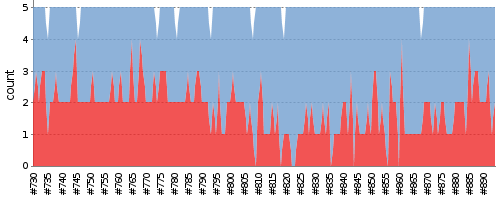
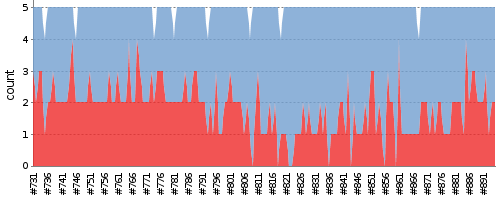
update report

diff --git a/index.md b/index.md
@@ -1,7 +1,7 @@
 ---
 layout: default
 ---
-Last update : 2016/01/23 14:59:12
+Last update : 2016/01/23 15:59:13
   
 ### Job Summary
 ___
@@ -116,6 +116,7 @@ ___
 #### Build History
 |Status|Time|Duration|Inspection|Test|Coverage|Changes|Build|Console|Image|Video|Note|
 |---|---|---|---|---|---|---|---|---|---|---|---|---|
+|![Jenkins Icon](http://jenkinshrg.github.io/images/24x24/yellow.png)UNSTABLE|2016/01/23 15:00|45 min.||2 err.|||[openhrp3.log](https://drive.google.com/file/d/0B54sHwaxmuM4cWVVcmRkLXdXdzA/view?usp=drivesdk)<br>[hrpsys-base.log](https://drive.google.com/file/d/0B54sHwaxmuM4VWtJdkZLV3hfZVk/view?usp=drivesdk)<br>[HRP2.log](https://drive.google.com/file/d/0B54sHwaxmuM4TXJ5S0lqWkZNOWc/view?usp=drivesdk)<br>[HRP2DRC.log](https://drive.google.com/file/d/0B54sHwaxmuM4R1o3WC1oZlEwcjA/view?usp=drivesdk)<br>[hmc2.log](https://drive.google.com/file/d/0B54sHwaxmuM4dFM4b3ZILVdOUlk/view?usp=drivesdk)<br>[hrpsys-humanoid.log](https://drive.google.com/file/d/0B54sHwaxmuM4M28yMDgtYXYxXzg/view?usp=drivesdk)<br>[hrpsys-private.log](https://drive.google.com/file/d/0B54sHwaxmuM4TVhibjRVYVYyMms/view?usp=drivesdk)<br>[choreonoid.log](https://drive.google.com/file/d/0B54sHwaxmuM4cUdITDFkZ0YxVDg/view?usp=drivesdk)<br>|[jenkinshrg.txt](https://drive.google.com/file/d/0B54sHwaxmuM4ajJWMzdyekFlS0U/view?usp=drivesdk)<br>|[jenkinshrg.png](https://drive.google.com/file/d/0B54sHwaxmuM4YzM0Vmg4azdvclk/view?usp=drivesdk)<br>|||
 |![Jenkins Icon](http://jenkinshrg.github.io/images/24x24/yellow.png)UNSTABLE|2016/01/23 14:00|45 min.||2 err.|||[openhrp3.log](https://drive.google.com/file/d/0B54sHwaxmuM4SWhyMC1LalMyWEU/view?usp=drivesdk)<br>[hrpsys-base.log](https://drive.google.com/file/d/0B54sHwaxmuM4c21namNVWHN5aGM/view?usp=drivesdk)<br>[HRP2.log](https://drive.google.com/file/d/0B54sHwaxmuM4ZWpSYmU2b0V0VkU/view?usp=drivesdk)<br>[HRP2DRC.log](https://drive.google.com/file/d/0B54sHwaxmuM4VXJYdFo3eURLbkU/view?usp=drivesdk)<br>[hmc2.log](https://drive.google.com/file/d/0B54sHwaxmuM4eFFZX2hKYW40YVk/view?usp=drivesdk)<br>[hrpsys-humanoid.log](https://drive.google.com/file/d/0B54sHwaxmuM4SXJSNWI3dnpLQ2M/view?usp=drivesdk)<br>[hrpsys-private.log](https://drive.google.com/file/d/0B54sHwaxmuM4UExEQTVZdlR5RFE/view?usp=drivesdk)<br>[choreonoid.log](https://drive.google.com/file/d/0B54sHwaxmuM4WDV3Y1VSRS1lTWs/view?usp=drivesdk)<br>|[jenkinshrg.txt](https://drive.google.com/file/d/0B54sHwaxmuM4R083WkxGR2hSYzg/view?usp=drivesdk)<br>|[jenkinshrg.png](https://drive.google.com/file/d/0B54sHwaxmuM4X0JoenZyeXQxTE0/view?usp=drivesdk)<br>|||
 |![Jenkins Icon](http://jenkinshrg.github.io/images/24x24/yellow.png)UNSTABLE|2016/01/23 13:00|45 min.||1 err.|||[openhrp3.log](https://drive.google.com/file/d/0B54sHwaxmuM4ZnNTWWlPd0hZOHc/view?usp=drivesdk)<br>[hrpsys-base.log](https://drive.google.com/file/d/0B54sHwaxmuM4SzNUQ0FJXzVneGs/view?usp=drivesdk)<br>[HRP2.log](https://drive.google.com/file/d/0B54sHwaxmuM4ODZJM1RyNnFEZXM/view?usp=drivesdk)<br>[HRP2DRC.log](https://drive.google.com/file/d/0B54sHwaxmuM4Z1VSeDA0XzU3SW8/view?usp=drivesdk)<br>[hmc2.log](https://drive.google.com/file/d/0B54sHwaxmuM4Q3I5OUF6dDQxeTA/view?usp=drivesdk)<br>[hrpsys-humanoid.log](https://drive.google.com/file/d/0B54sHwaxmuM4M3NsS01FVk1VTW8/view?usp=drivesdk)<br>[hrpsys-private.log](https://drive.google.com/file/d/0B54sHwaxmuM4UG5PYllqSFhCSkk/view?usp=drivesdk)<br>[choreonoid.log](https://drive.google.com/file/d/0B54sHwaxmuM4NHd5cm05NzFGNDg/view?usp=drivesdk)<br>|[jenkinshrg.txt](https://drive.google.com/file/d/0B54sHwaxmuM4OUpyUzJ2Y3VOVVk/view?usp=drivesdk)<br>|[jenkinshrg.png](https://drive.google.com/file/d/0B54sHwaxmuM4XzRwUjlGaWZhS28/view?usp=drivesdk)<br>|||
 |![Jenkins Icon](http://jenkinshrg.github.io/images/24x24/yellow.png)UNSTABLE|2016/01/23 12:00|47 min.||3 err.|||[openhrp3.log](https://drive.google.com/file/d/0B54sHwaxmuM4ZVM4dWNELURHdEU/view?usp=drivesdk)<br>[hrpsys-base.log](https://drive.google.com/file/d/0B54sHwaxmuM4M0djY0xmb0lIS28/view?usp=drivesdk)<br>[HRP2.log](https://drive.google.com/file/d/0B54sHwaxmuM4NGxROGViWFFTYkk/view?usp=drivesdk)<br>[HRP2DRC.log](https://drive.google.com/file/d/0B54sHwaxmuM4SUFfWU9zQ1VjbGc/view?usp=drivesdk)<br>[hmc2.log](https://drive.google.com/file/d/0B54sHwaxmuM4Ymd4WDV3amJFV28/view?usp=drivesdk)<br>[hrpsys-humanoid.log](https://drive.google.com/file/d/0B54sHwaxmuM4dVN4eFlGbTZ4X3M/view?usp=drivesdk)<br>[hrpsys-private.log](https://drive.google.com/file/d/0B54sHwaxmuM4c2tsX1M5dEY5TTQ/view?usp=drivesdk)<br>[choreonoid.log](https://drive.google.com/file/d/0B54sHwaxmuM4TDV1Vkdmc095Um8/view?usp=drivesdk)<br>|[jenkinshrg.txt](https://drive.google.com/file/d/0B54sHwaxmuM4UUtYNkdoUUtjMzg/view?usp=drivesdk)<br>[testbed-terrain.txt](https://drive.google.com/file/d/0B54sHwaxmuM4Ri1NUkxaUmFXMXM/view?usp=drivesdk)<br>|[jenkinshrg.png](https://drive.google.com/file/d/0B54sHwaxmuM4Si1VSUF3R1liM2c/view?usp=drivesdk)<br>[testbed-terrain.png](https://drive.google.com/file/d/0B54sHwaxmuM4RTN6eDM4QjJLakk/view?usp=drivesdk)<br>|[jenkinshrg.ogv](https://drive.google.com/file/d/0B54sHwaxmuM4akVUVDc2TF9zX2c/view?usp=drivesdk)<br>||
@@ -215,4 +216,3 @@ ___
 |![Jenkins Icon](http://jenkinshrg.github.io/images/24x24/yellow.png)UNSTABLE|2016/01/19 19:00|45 min.||1 err.||||||||
 |![Jenkins Icon](http://jenkinshrg.github.io/images/24x24/yellow.png)UNSTABLE|2016/01/19 18:00|45 min.||1 err.||||||||
 |![Jenkins Icon](http://jenkinshrg.github.io/images/24x24/yellow.png)UNSTABLE|2016/01/19 17:00|44 min.||3 err.||||||||
-|![Jenkins Icon](http://jenkinshrg.github.io/images/24x24/yellow.png)UNSTABLE|2016/01/19 16:00|44 min.||1 err.||||||||
